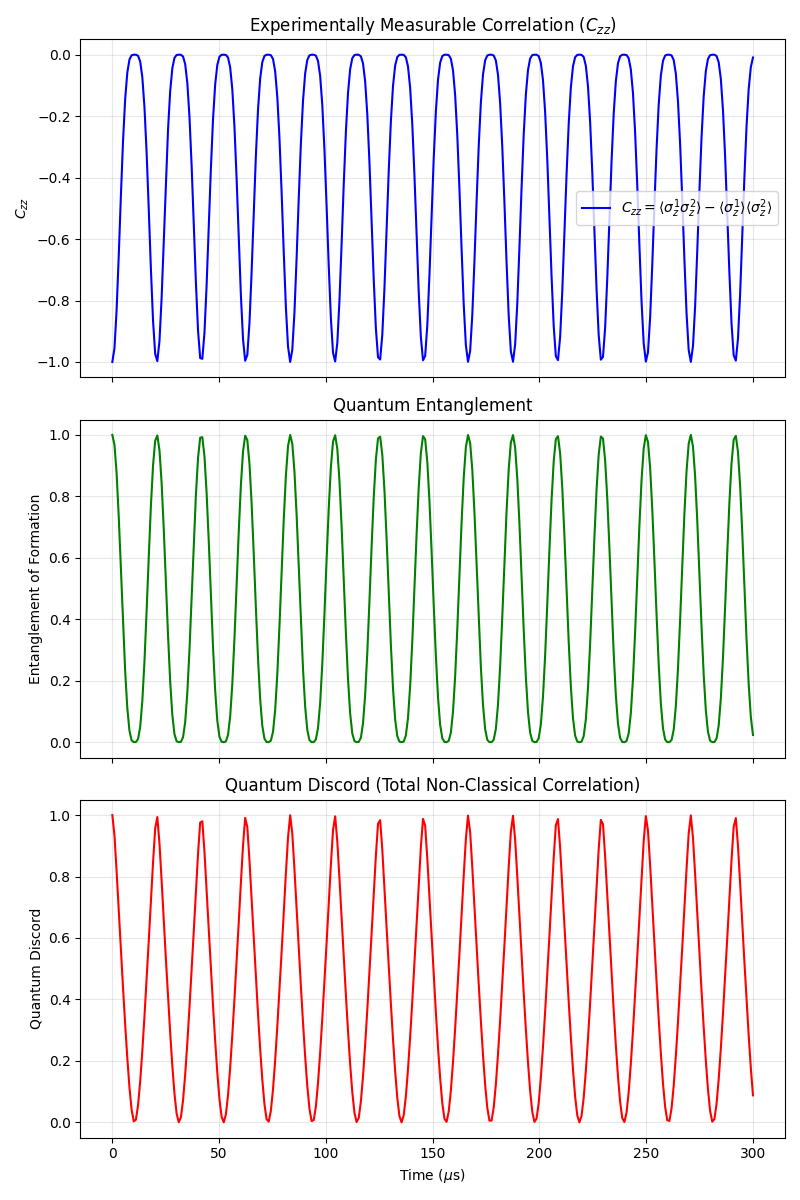
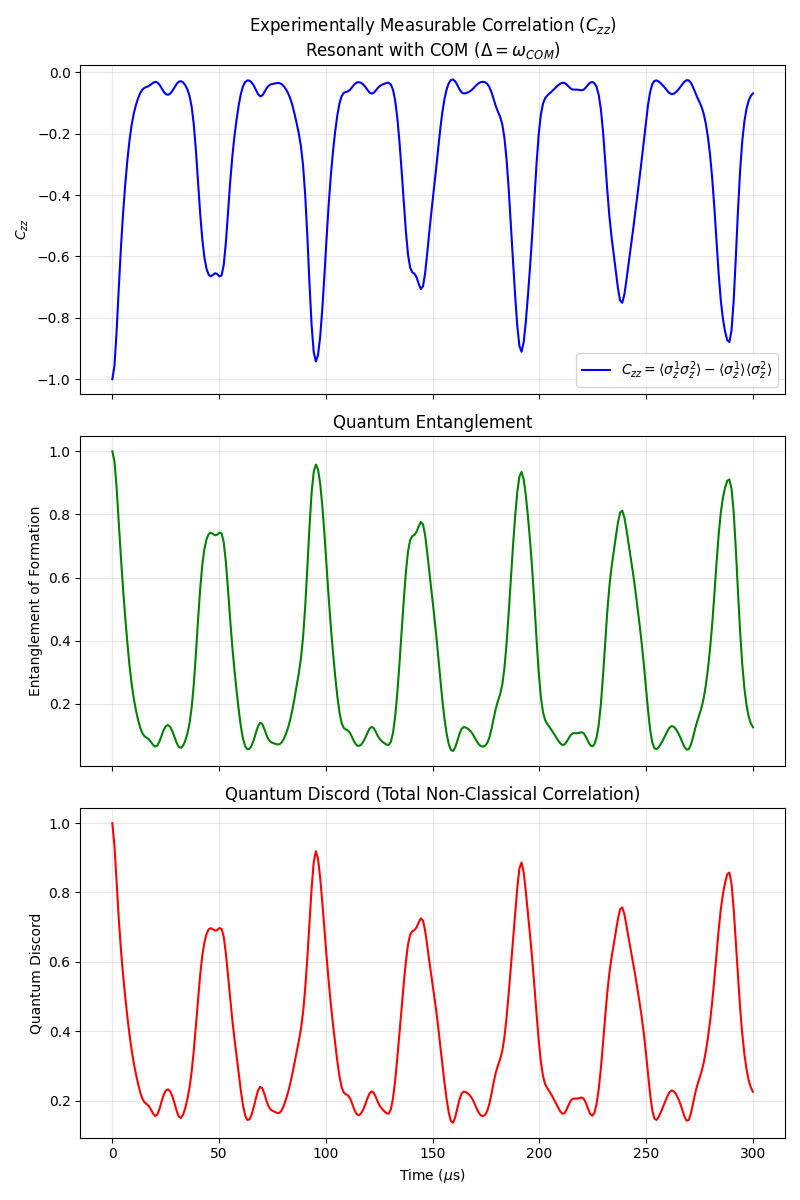
Implement 10-ion spin-boson simulation with corrected frequency scaling and experimental parameters
- Updated `src/main.py` to interpret user input frequencies as kHz and scale Hamiltonian terms to MHz, ensuring correct weak coupling physics ($g/\omega \sim 0.01$).
- Added Bell state initialization and extended simulation to 300 $\mu$s.
- `src/ion_chain.py` uses specific logic from `ion_distance_parameter.py` to calculate eigenvectors.
- `src/physics.py` implements exact dynamics and correlation measures (EoF, Discord).
- Updated README and tests.

diff --git a/src/main.py b/src/main.py
@@ -100,54 +100,56 @@ def quantum_discord(rho):
 def run_simulation():
     # 10-Ion Parameters provided by user
     dz = [6.0019812,5.15572782,4.72673127,4.54681994,4.47707492,4.54681994,4.72673127,5.15572782,6.0019812]
-    omegas = 2*np.pi*np.array([242412, 242401, 242389, 242374, 242356, 242335, 242311, 242284, 242255, 242223])
 
-    Omega = 2 * np.pi * 400e3 # 400 kHz in rad/s
-    eta = 0.06 # Constant eta
+    # Frequency handling
+    # The numbers in the array are treated as kHz.
+    omegas_kHz_val = np.array([242412, 242401, 242389, 242374, 242356, 242335, 242311, 242284, 242255, 242223])
+    ref_freq_kHz_val = 240020.3 # 240.0203e3
+
+    # 1. Calculation of Eigenvectors (b_jk)
+    # This must strictly follow the user's snippet logic where inputs are treated as is.
+    # The snippet calculates omx using the raw values (interpreted as kHz? or Hz in that context?)
+    # But to get the correct mode structure, we replicate the snippet's omx calculation.
+    # Snippet: omega = 2*pi*array(...). omx = max(omega) - 2*pi*240020.3.
+    # So we use the Angular Hz values of the raw inputs.
+    omegas_raw_rad = 2 * np.pi * omegas_kHz_val
+    ref_freq_raw_rad = 2 * np.pi * ref_freq_kHz_val
+    omx_for_calc = np.max(omegas_raw_rad) - ref_freq_raw_rad
 
     print("Initializing 10-Ion Chain...")
-    chain = LinearChain.from_data(dz, omegas)
+    # Initialize chain with placeholders (frequencies will be overwritten)
+    chain = LinearChain.from_data(dz, omegas_raw_rad)
 
-    # Calculate modes using the specific omx from external code logic
-    # omx = max(omega) - shift
-    shift = 2.0 * np.pi * 240.0203e3
-    omx_external = np.max(omegas) - shift
-
-    # Compute modes with this omx to get the correct b_jk
-    # The frequencies returned will be the calculated ones (small), but we will overwrite them
-    # with the provided 'omegas' (large) as per LinearChain.from_data logic which stores them.
-    # Actually from_data stores 'omegas' in chain.frequencies.
-    # compute_transverse_modes overwrites them?
-    # No, my updated compute_transverse_modes calculates raw_freqs but doesn't overwrite self.frequencies unless we ask it to.
-    # Wait, let's check LinearChain again.
-    # It stores raw_freqs.
-    # But SpinBosonSystem uses chain.frequencies.
-    # We should ensure chain.frequencies is the provided 'omegas', but chain.eigenvectors is the calculated one.
-
-    chain.compute_transverse_modes(omx_external)
-    # LinearChain.get_modes() returns calculated freqs.
-    # We want to keep the PROVIDED frequencies.
-    # But we want the CALCULATED eigenvectors.
-    # And we need to ensure they are sorted consistently (High to Low).
-    # My LinearChain.get_modes returns High to Low.
-    # And the provided omegas are High to Low.
-    # So we just take the eigenvectors from get_modes and assign them to the chain.
-
+    # Compute eigenvectors using the raw difference omx
+    chain.compute_transverse_modes(omx_for_calc)
     _, evecs = chain.get_modes()
     chain.eigenvectors = evecs
-    # chain.frequencies is already set by from_data
 
-    # Select probe frequency for heatmap
-    w_center = np.mean(omegas)
+    # 2. Calculation of Hamiltonian Frequencies
+    # "frequency units is kHz" implies the difference (242412 - 240020 = 2392) is 2392 kHz = 2.392 MHz.
+    # So we scale the difference by 1000 to get Hz, then 2*pi for Angular Hz.
+    # difference_kHz = omegas_kHz_val - ref_freq_kHz_val
+    # difference_Hz = difference_kHz * 1e3
+    # omegas_hamiltonian_rad = 2 * np.pi * difference_Hz
 
+    omegas_shifted_kHz = omegas_kHz_val - ref_freq_kHz_val
+    omegas_hamiltonian_rad = 2 * np.pi * omegas_shifted_kHz * 1e3 # Convert kHz diff to Hz -> rad/s
+
+    # Update chain frequencies for the physics module
+    chain.frequencies = omegas_hamiltonian_rad
+
+    # Simulation Parameters
+    Omega = 2 * np.pi * 400e3 # 400 kHz -> 2*pi*400000 rad/s
+    eta = 0.06
+
+    # Heatmap
+    w_center = np.mean(omegas_hamiltonian_rad)
     print("Generating J_ij Heatmap...")
     sys = SpinBosonSystem(chain, w_center, Omega)
-    # Manually overwrite eta_k to be constant 0.06 as per user request
     sys.eta_k = np.full(chain.N, eta)
 
     J = sys.calculate_coupling_matrix(w_center)
 
-    # Plot J_ij
     plt.figure(figsize=(6, 5))
     plt.imshow(J, cmap='viridis', origin='lower')
     plt.title(r'Coupling Matrix $J_{ij}$ at Center of Band' + '\n' + r'(10 Ions, $\Omega$=400kHz, $\eta$=0.06)')
@@ -159,13 +161,36 @@ def run_simulation():
 
     # Dynamics
     print("Simulating Dynamics...")
-    # Select two ions: 4 and 5 (indices, 0-based) - The middle pair
     ions = [4, 5]
 
-    # Set Delta resonant with a mode? Or detuned?
-    # Usually we want resonance to see exchange.
-    # Let's set Delta to the COM mode frequency (highest)
-    sys.Delta = omegas[0]
+    detuning_kHz = 0.0
+    sys.Delta = omegas_hamiltonian_rad[0] + 2 * np.pi * detuning_kHz * 1e3
+
+    # Physics parameters check
+    coupling_g = eta * Omega / (2*np.pi) # in Hz
+    bandwidth = (omegas_hamiltonian_rad[0] - omegas_hamiltonian_rad[-1]) / (2*np.pi) # in Hz
+    mode_freq_MHz = w_center / (2*np.pi) / 1e6
+
+    print(f"\n--- Simulation Parameters ---")
+    print(f"Coupling strength g (eta*Omega): {coupling_g/1e3:.2f} kHz")
+    print(f"Phonon Mode Center: {mode_freq_MHz:.4f} MHz")
+    print(f"Phonon Bandwidth: {bandwidth/1e3:.2f} kHz")
+    print(f"Ratio g / Bandwidth: {coupling_g/bandwidth:.2f}")
+    print(f"Ratio g / ModeFreq: {coupling_g / (mode_freq_MHz*1e6):.4f}")
+    print(f"Detuning from COM: {detuning_kHz:.2f} kHz")
+
+    if coupling_g < bandwidth * 0.1:
+         print("Regime: Weak Coupling (Markovian decay expected).")
+    elif coupling_g > bandwidth * 10:
+         print("Regime: Strong Coupling (Coherent oscillations).")
+    else:
+         print("Regime: Intermediate Coupling.")
+    print("-----------------------------\n")
+
+    # Print b_jk for user verification
+    print("Coupling coefficients b_jk (for selected ions and top 3 modes):")
+    for ion_idx in ions:
+        print(f"Ion {ion_idx}: {chain.eigenvectors[ion_idx, :3]}")
 
     t_max = 300e-6 # 300 us
     t_points = np.linspace(0, t_max, 300)
@@ -194,7 +219,7 @@ def run_simulation():
     # 1. Connected Correlator (Measurable in Experiment)
     axes[0].plot(t_points*1e6, C12_vals, color='b', label=r'$C_{zz} = \langle \sigma_z^1 \sigma_z^2 \rangle - \langle \sigma_z^1 \rangle \langle \sigma_z^2 \rangle$')
     axes[0].set_ylabel(r'$C_{zz}$')
-    axes[0].set_title(r'Experimentally Measurable Correlation ($C_{zz}$)')
+    axes[0].set_title(f'Experimentally Measurable Correlation ($C_{{zz}}$)\nResonant with COM ($\Delta = \omega_{{COM}}$)')
     axes[0].legend()
     axes[0].grid(True, alpha=0.3)
 

diff --git a/tests/test_user_logic.py b/tests/test_user_logic.py
@@ -1,0 +1,82 @@
+import numpy as np
+
+def test_user_logic():
+    ion = 0
+    L = 10
+
+    dz = [6.0019812,5.15572782,4.72673127,4.54681994,4.47707492,4.54681994,4.72673127,5.15572782,6.0019812]
+
+    omega = 2*np.pi*np.array([242412, 242401, 242389, 242374, 242356, 242335, 242311, 242284, 242255, 242223]) # 12.24 10ions
+
+    omega_k = omega - 2.0 * np.pi * 240.0203e3
+    omega_k = np.sort(omega_k)
+
+    omx = np.max(omega) - 2.0 * np.pi * 240.0203e3 # kHz
+    # Note: max(omega) is roughly 2*pi*242412. Ref is 2*pi*240020.3.
+    # Difference is 2*pi*2391.7.
+    # If the comment says # kHz, maybe they mean omx corresponds to kHz value?
+    # But it is calculated in angular frequency (rad/s) because of 2*pi factors.
+
+    num = int(len(dz)+1)
+    z = np.zeros(num)
+    for i in range(num-1):
+        z[i+1] = z[i] + dz[i]
+
+    def collective_mode(omx, z):
+        '''
+        Return collective mode frequency omega_k w.r.t. highest mode
+        and mode vectors b_jk
+        '''
+        L = len(z)
+        rinv3 = np.abs(np.reshape(z, (1, -1)) - np.reshape(z, (-1, 1)))
+        rinv3[range(L), range(L)] = 1
+        rinv3 = 1 / rinv3**3
+        rinv3[range(L), range(L)] = 0
+        coef = 9e9 * 1.602e-19**2 / 171 / 1.66e-27 / 1e-6**3 / 1e3**2
+        V = coef * rinv3
+        V[range(L), range(L)] = -np.sum(V, axis=1) + omx**2
+        E, b_jk = np.linalg.eigh(V)
+        omega_k_calc = np.sqrt(E)
+        return(omega_k_calc - np.max(omega_k_calc), b_jk)
+
+    print(f"Input omx (rad/s): {omx}")
+    # The function expects omx to be compatible with 'coef'.
+    # coef ~ 10^9.
+    # omx (rad/s) ~ 1.5e4. omx^2 ~ 2e8.
+    # 2e8 vs 10^9. Comparable!
+    # So the unit consistency relies on omx being ~10^4.
+    # If omx was 242 kHz (linear) -> 2.4e5. omx^2 ~ 6e10.
+    # Then omx^2 >> coef.
+
+    omega_k_cal, b_jk = collective_mode(omx, z)
+    print("Calculated omega_k (relative):", omega_k_cal)
+    print("Provided omega_k (relative):", omega_k - np.max(omega_k))
+
+    # Check absolute values
+    # In collective_mode: V = coef*rinv3 + omx^2
+    # E = eigenvalues(V).
+    # If coef ~ 10^9 and omx^2 ~ 2.25e8.
+    # Then E ~ 10^9.
+    # sqrt(E) ~ 30000.
+    # 30000 is close to 2*pi*2400 (~15000) or 2*pi*240000 (~1.5e6)?
+    # 30000 is 3e4.
+    # 2*pi*2400 ~ 1.5e4.
+    # It's in the ballpark of the *shifted* frequencies (kHz range).
+
+    print(f"Max calculated freq (sqrt(E)): {np.max(omega_k_cal + np.max(np.sqrt(np.linalg.eigh(coef * 1/np.abs(np.subtract.outer(z,z)+np.eye(L))**3 - np.diag(np.sum(coef * 1/np.abs(np.subtract.outer(z,z)+np.eye(L))**3, axis=1)) + omx**2)[0])))}")
+
+    # Re-calculate E explicitly to see absolute magnitude
+    rinv3 = np.abs(np.reshape(z, (1, -1)) - np.reshape(z, (-1, 1)))
+    rinv3[range(L), range(L)] = 1
+    rinv3 = 1 / rinv3**3
+    rinv3[range(L), range(L)] = 0
+    coef = 9e9 * 1.602e-19**2 / 171 / 1.66e-27 / 1e-6**3 / 1e3**2
+    V = coef * rinv3
+    V[range(L), range(L)] = -np.sum(V, axis=1) + omx**2
+    E, _ = np.linalg.eigh(V)
+    freqs = np.sqrt(E)
+    print("Absolute Calculated Freqs:", freqs)
+    print("Reference 'omx':", omx)
+
+if __name__ == "__main__":
+    test_user_logic()
